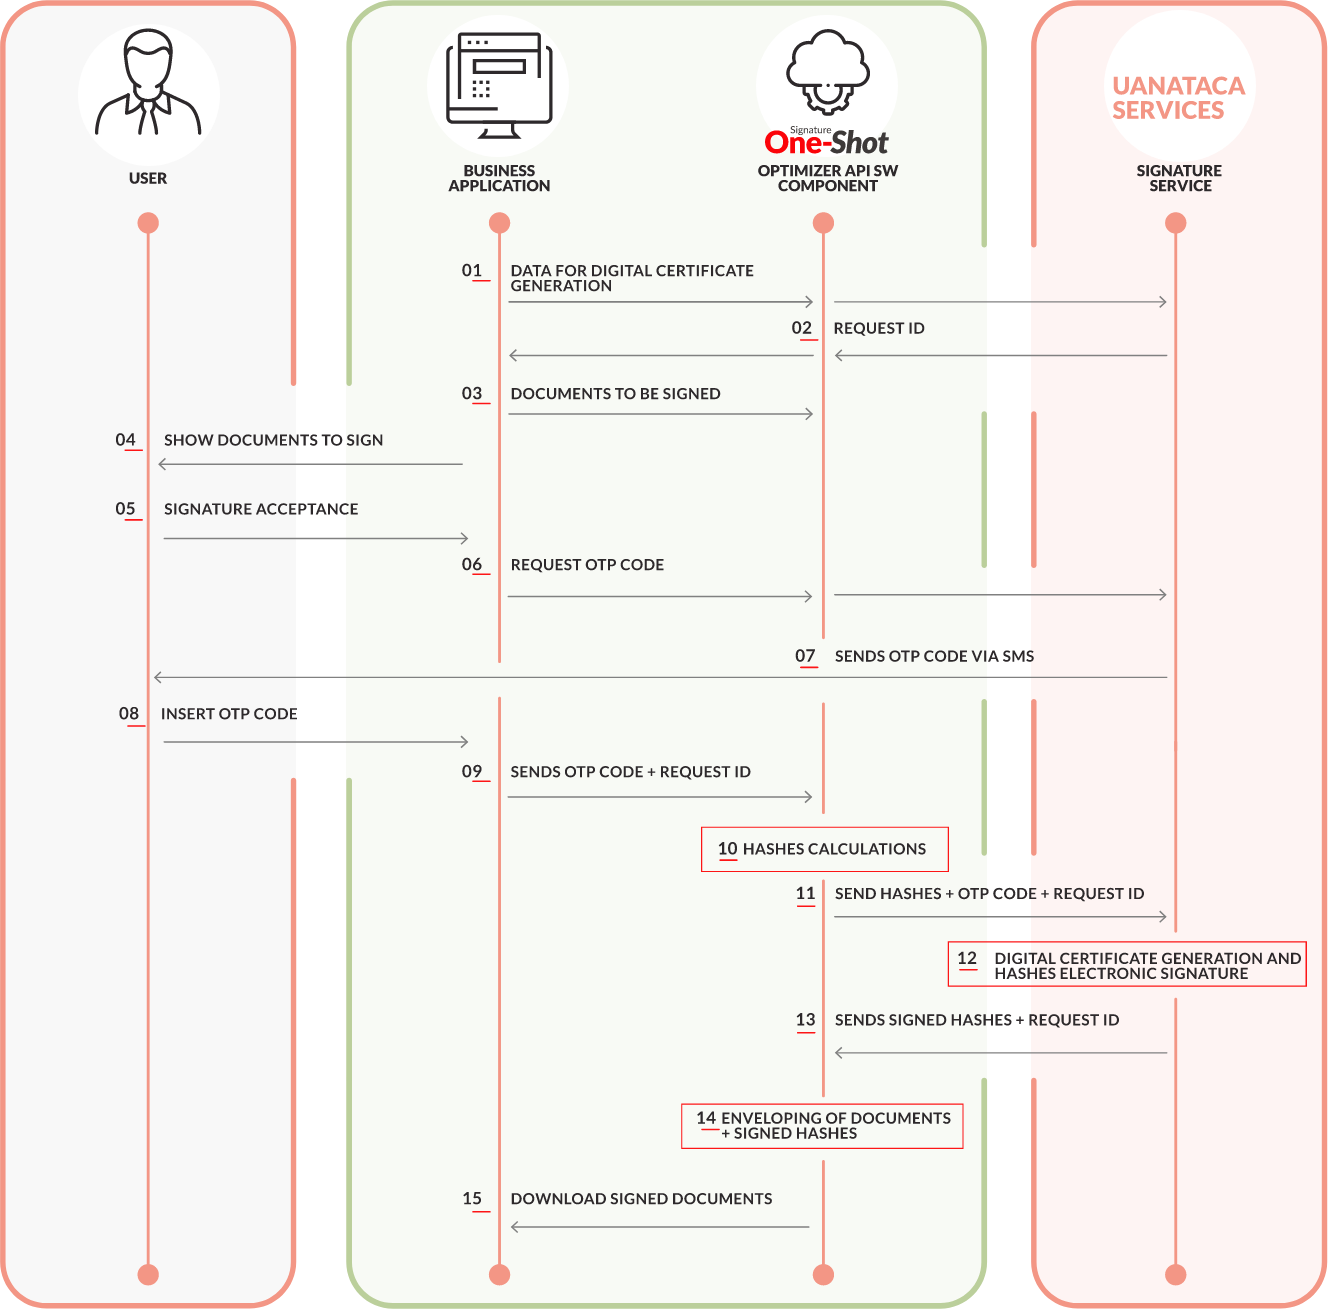
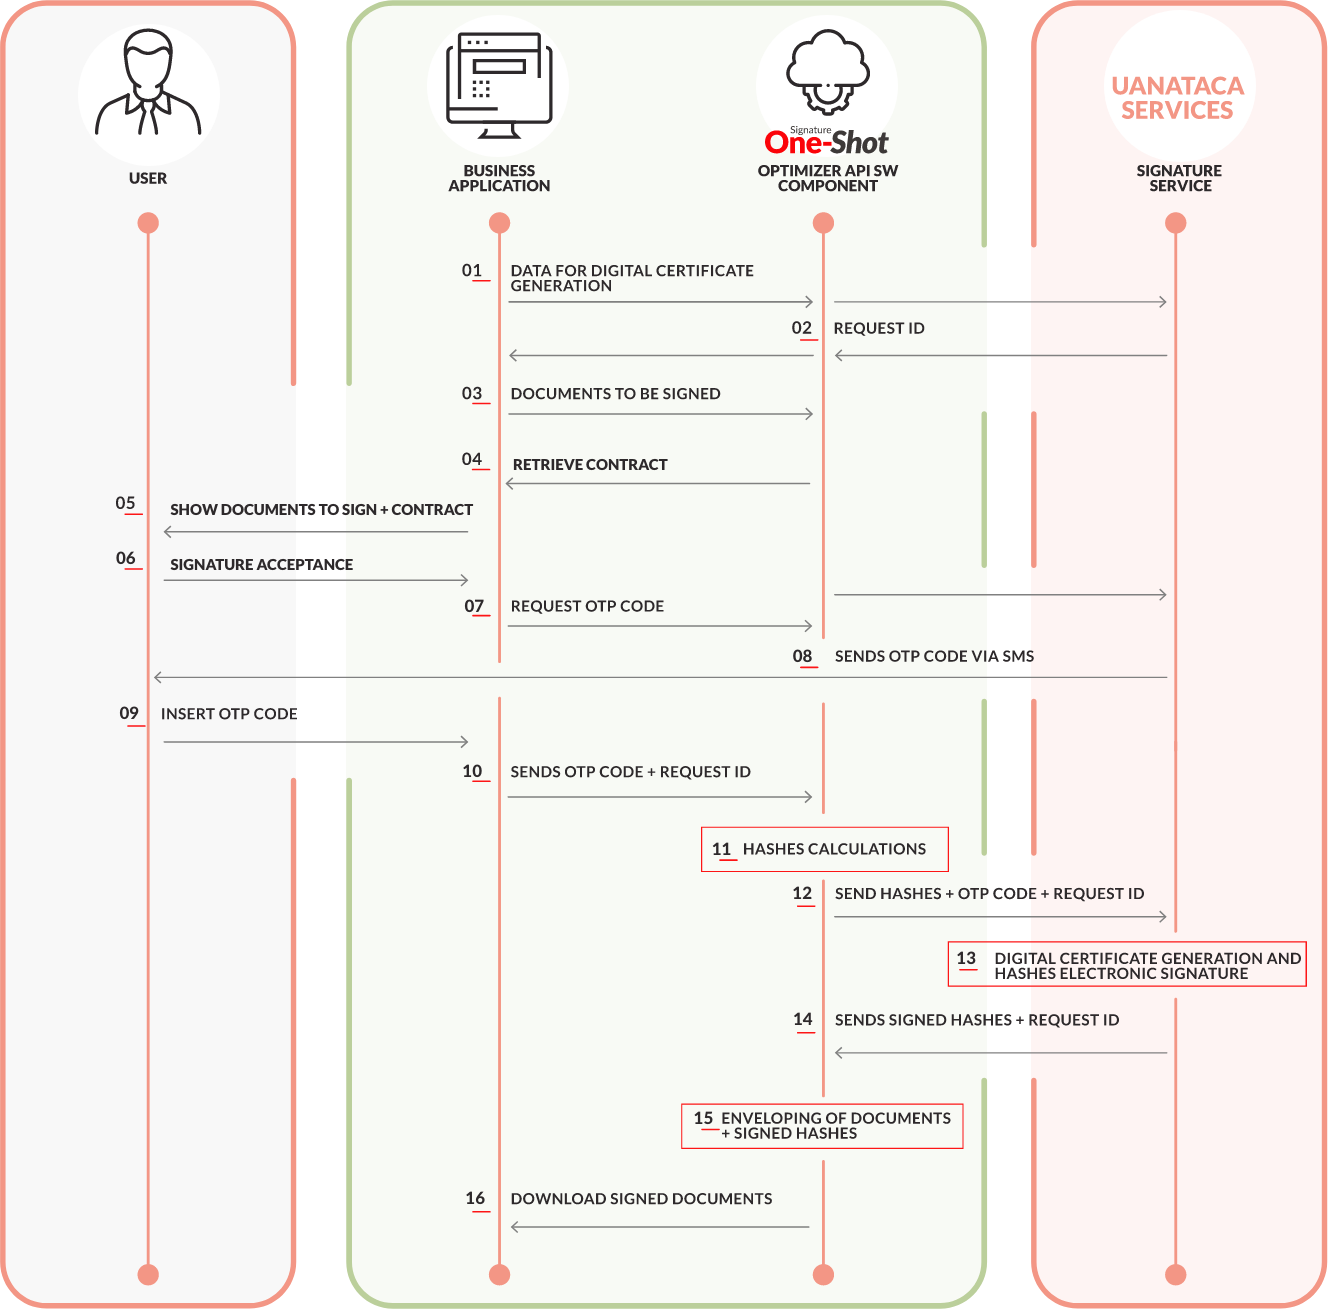
Update

diff --git a/oneshot_tpl.html b/oneshot_tpl.html
@@ -159,6 +159,10 @@
         padding: 2.8em 2.5em;
         color: var(--text-color);
       }
+	  
+	  .main-nav a:hover {
+        color: rgb(240, 255, 240)
+      }
 
       .footer {
         position:absolute;
@@ -388,10 +392,10 @@
                   <div class="dropdown-content">
                     <li><a href="https://signbox-uanataca-docs.redoc.ly">SignBox API</a></li>
                     <li><a href="https://oneshot-uanataca-docs.redoc.ly">One-Shot API</a></li>
+                    <li><a href="https://otp-uanataca-docs.redoc.ly">OTP Signature API</a></li>
                     <li><a href="https://signcloud-uanataca-docs.redoc.ly">SignCloud API</a></li>
                     <li><a href="https://ra-uanataca-docs.redoc.ly">Registration Authority API</a></li>
                     <li><a href="https://vol-uanataca-docs.redoc.ly">VOL API</a></li>
-                    <li><a href="https://otp-uanataca-docs.redoc.ly">OTP API</a></li>
                     <li><a href="https://tsa-uanataca-docs.redoc.ly">Timestamp API</a></li>
                   </div>
               </ul>
@@ -405,10 +409,10 @@
         <ul class="menu-nav-list">
           <li><a href="https://signbox-uanataca-docs.redoc.ly">SignBox API</a></li>
           <li><a href="https://oneshot-uanataca-docs.redoc.ly">One-Shot API</a></li>
+          <li><a href="https://otp-uanataca-docs.redoc.ly">OTP Signature API</a></li>
           <li><a href="https://signcloud-uanataca-docs.redoc.ly">SignCloud API</a></li>
           <li><a href="https://ra-uanataca-docs.redoc.ly">Registration Authority API</a></li>
           <li><a href="https://vol-uanataca-docs.redoc.ly">VOL API</a></li>
-          <li><a href="https://otp-uanataca-docs.redoc.ly">OTP API</a></li>
           <li><a href="https://tsa-uanataca-docs.redoc.ly">Timestamp API</a></li>
         </ul>
       

diff --git a/oneshot_gui.md b/oneshot_gui.md
@@ -1,23 +1,27 @@
 # What it is
 
 <div style="text-align: justify">
-One-Shot Signature is a complete solution for the digital signature of documents within your application. It is designed so that no sensitive data has to be sent away from your premises, as only hashes of the documents to be signed need to be transmitted to the signature service.
+The solution for electronic signature with a One Time certificate issue. One-Shot API is the solution for Uanataca One-Shot Signature service, a complete option for the electronic signature of documents within your application or web.
 <br></br>
-Documents are signed through the creation of <strong>single-use</strong> digital certificates, which are created when needed and immediately used to electronically sign all documents included in a given transaction. Digital signatures will include a time stamp, proving the existence and integrity of the documents at the time of signature.
+It is designed so that no sensitive data has to be sent away from your premises, as only hashes of the documents to be signed need to be transmitted to the signature service. Documents are signed through the creation of single-use digital certificates, which are created at the moment for immediately be used to electronically sign all documents included in a given transaction.
+<br></br> 
+Electronic signatures include a time stamp, providing to the document signature with a reliable date and time.
+<br></br>
+Through this system we offer our One-shot Signature service, an autonomous solution adapting to multiple use cases.
 </div>
 
 # How it works
 
 <div style="text-align: justify">
-A valid digital signature requires a certificate, issued by a trusted Certification Authority (CA). This certificate is used to establish that the document was signed by a specific entity (in our case, the user). Although certificate generation is largely automated within One-Shot Signature, having an idea of what is going on under the hood will help us to better understand its operation.
+The API is given with One-Shot Optimizer that is a server system exposing http RESTful API by means of which, business applications are enabled to require the electronic signature.
 <br></br>
-Within the context of a Public Key Infrastructure (PKI), the entity responsible for registering new digital identities is called a Registration Authority (RA). RA employ Registration Authority Officers (RAO) to add new user identities to the infrastructure and request the creation of new digital signature certificates for its users. Each of these certificates can then be used to digitally sign documents.
+One-Shot Optimizer performs the most computationally expensive workload of the signature process, thus reducing the data traffic on the local network and make the most of the cryptographic hardware acceleration. The documents to be signed are processed in the customer business layer and are not send to Uanataca Services, instead is sent a hash of the document created using a hash algorithm.
 <br></br>
-In the case of One-Shot Signature, certificates are generated on the spot every time a new set of documents requires a signature. Through the One-Shot Signature service, you will play the role of a RAO, providing identifying data for each user and requesting the generation of signature certificates. Once user registration data has been provided and the certificate is ready to be generated, the end user will activate the generation of the digital certificate and complete the signature procedure.
+Uanataca is a Qualified Trusted Service Provider that issue digital certificates by a trusted Certification Authority (CA). The role of Registration Authority Officials (RAO) is needed to add new user requests to the infrastructure and so request the creation of new digital certificates for its users. Each of these certificates can then be used to electronically sign documents.
 <br></br>
-The service is given with One-Shot Optimizer that is a server system exposing http RESTful APIs by means of which, business applications are enabled to require the digital signature. 
+One-Shot Signature certificates are generated on the spot every time a new set of documents requires a signature. Through the One-Shot Signature service, you will play the role of a RAO, providing identifying data for each user and requesting the generation of signature certificates. Once user registration data has been provided and the certificate is ready to be generated, the end user will activate the generation of the digital certificate and complete the signature procedure.
 <br></br>
-One-Shot Optimizer performs the most computationally expensive workload of the signature process, thus reducing the data traffic on the local network and make the most of the cryptographic hardware acceleration. The documnets to be signed are processed in the customer business layer and are not send to Uanataca Services, instead is sent a hash of the document created using a hash algorithm. 
+The electronic signatures are performed in Uanataca Trusted Service Center side, where signature keys are generated and stored in a Qualified Electronic Signature Creation Device (QSCD) system.
 </div>
 <br></br>
 
@@ -44,18 +48,19 @@ The following images summarize One-Shot Signature flow involving both authentica
 1. The business application creates a new digital signature request, providing all required user data
 2. One-Shot Optimizer returns an identifier for the certificate request
 3. The business application provides the documents to be signed by the end user
-4. The business application shows the documents to be signed to its end user
-5. After reviewing the document, the end user agrees to sign it
-6. The business application starts the signature process by requesting the generation of a One-Time Password (OTP) token for the signature
-7. Uanataca services sends the OTP directly to the end user through an SMS message
-8. By introducing the OTP, the end user identifies himself as the subject of the signature certificate
-9. The business application provides the OTP and the identifier of the signature request to the One-Shot Optimizer
-10. One-Shot Optimizer takes care of computing the hash of the documents to be signed in the business layer
-11. Hashes are sent together with the request identifier and OTP code to Uanataca Services
-12. The end user signature certificate is generated and used to sign the hashes
-13. The signed hashes and the signature identifier are returned to the One-Shot Optimizer
-14. One-Shot Optimizer generates the signed document envelopment, combining the original documents with the signed hashes
-15. Finallly, the business application calls One-Shot Optimizer API to obtain the signed documents
+4. The business application retrieve the service contract
+5. The business application shows the documents to be signed and the service contract to its end user
+6. After reviewing the documents, the end user agrees to sign them
+7. The business application starts the signature process by requesting the generation of a One-Time Password (OTP) token for the signature
+8. Uanataca services sends the OTP directly to the end user through an SMS message
+9. By introducing the OTP, the end user identifies himself as the subject of the signature certificate
+10. The business application provides the OTP and the identifier of the signature request to the One-Shot Optimizer
+11. One-Shot Optimizer takes care of computing the hash of the documents to be signed in the business layer
+12. Hashes are sent together with the request identifier and OTP code to Uanataca Services
+13. The end user signature certificate is generated and used to sign the hashes
+14. The signed hashes and the signature identifier are returned to the One-Shot Optimizer
+15. One-Shot Optimizer generates the signed document envelopment, combining the original documents with the signed hashes
+16. Finallly, the business application calls One-Shot Optimizer API to obtain the signed documents
 <br></br>
 
 > Other authentication methods
@@ -68,15 +73,16 @@ The following images summarize One-Shot Signature flow involving both authentica
 1. The business application creates a new digital signature request, providing all required user data
 2. One-Shot Optimizer returns an identifier for the certificate request
 3. The business application provides the documents to be signed by the end user
-4. The business application shows the documents to be signed to its end user
-5. After reviewing the document, the end user agrees to sign it
-6. The client application starts the signature process with an authentication method provided by the client
-7. One-Shot Optimizer takes care of computing the hash of the documents to be signed in the business layer
-8. Hashes are sent together with the request identifier and an id of the busuness authentication method to Uanataca Services
-9. The end user signature certificate is generated and used to sign the hashes
-10. The signed hashes and the signature identifier are returned to the One-Shot Optimizer
-11. One-Shot Optimizer generates the signed document envelopment, combining the original documents with the signed hashes
-12. Finallly, the business application calls One-Shot Optimizer API to obtain the signed documents
+4. The business application retrieve the service contract
+5. The business application shows the documents to be signed and the service contract to its end user
+6. After reviewing the documents, the end user agrees to sign them
+7. The client application starts the signature process with an authentication method provided by the client
+8. One-Shot Optimizer takes care of computing the hash of the documents to be signed in the business layer
+9. Hashes are sent together with the request identifier and an id of the busuness authentication method to Uanataca Services
+10. The end user signature certificate is generated and used to sign the hashes
+11. The signed hashes and the signature identifier are returned to the One-Shot Optimizer
+12. One-Shot Optimizer generates the signed document envelopment, combining the original documents with the signed hashes
+13. Finallly, the business application calls One-Shot Optimizer API to obtain the signed documents
 
 
 
